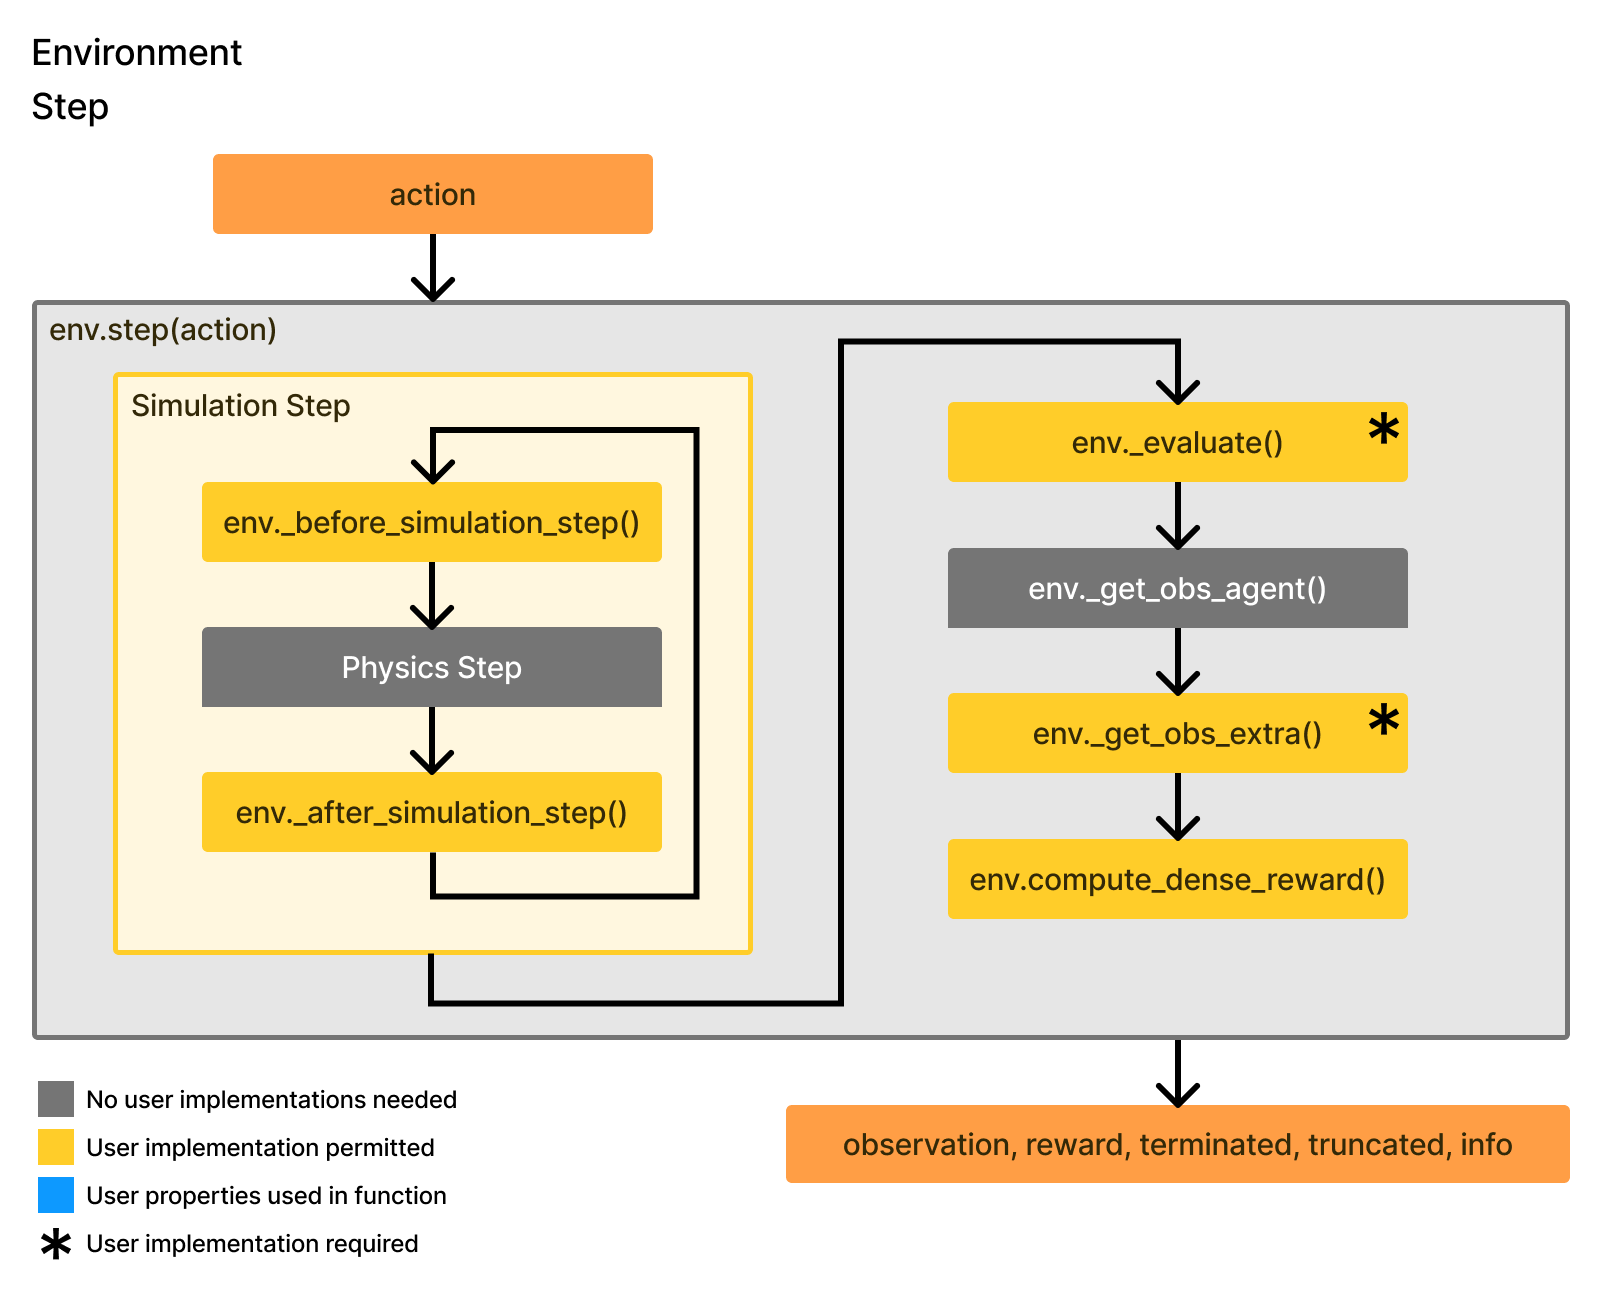
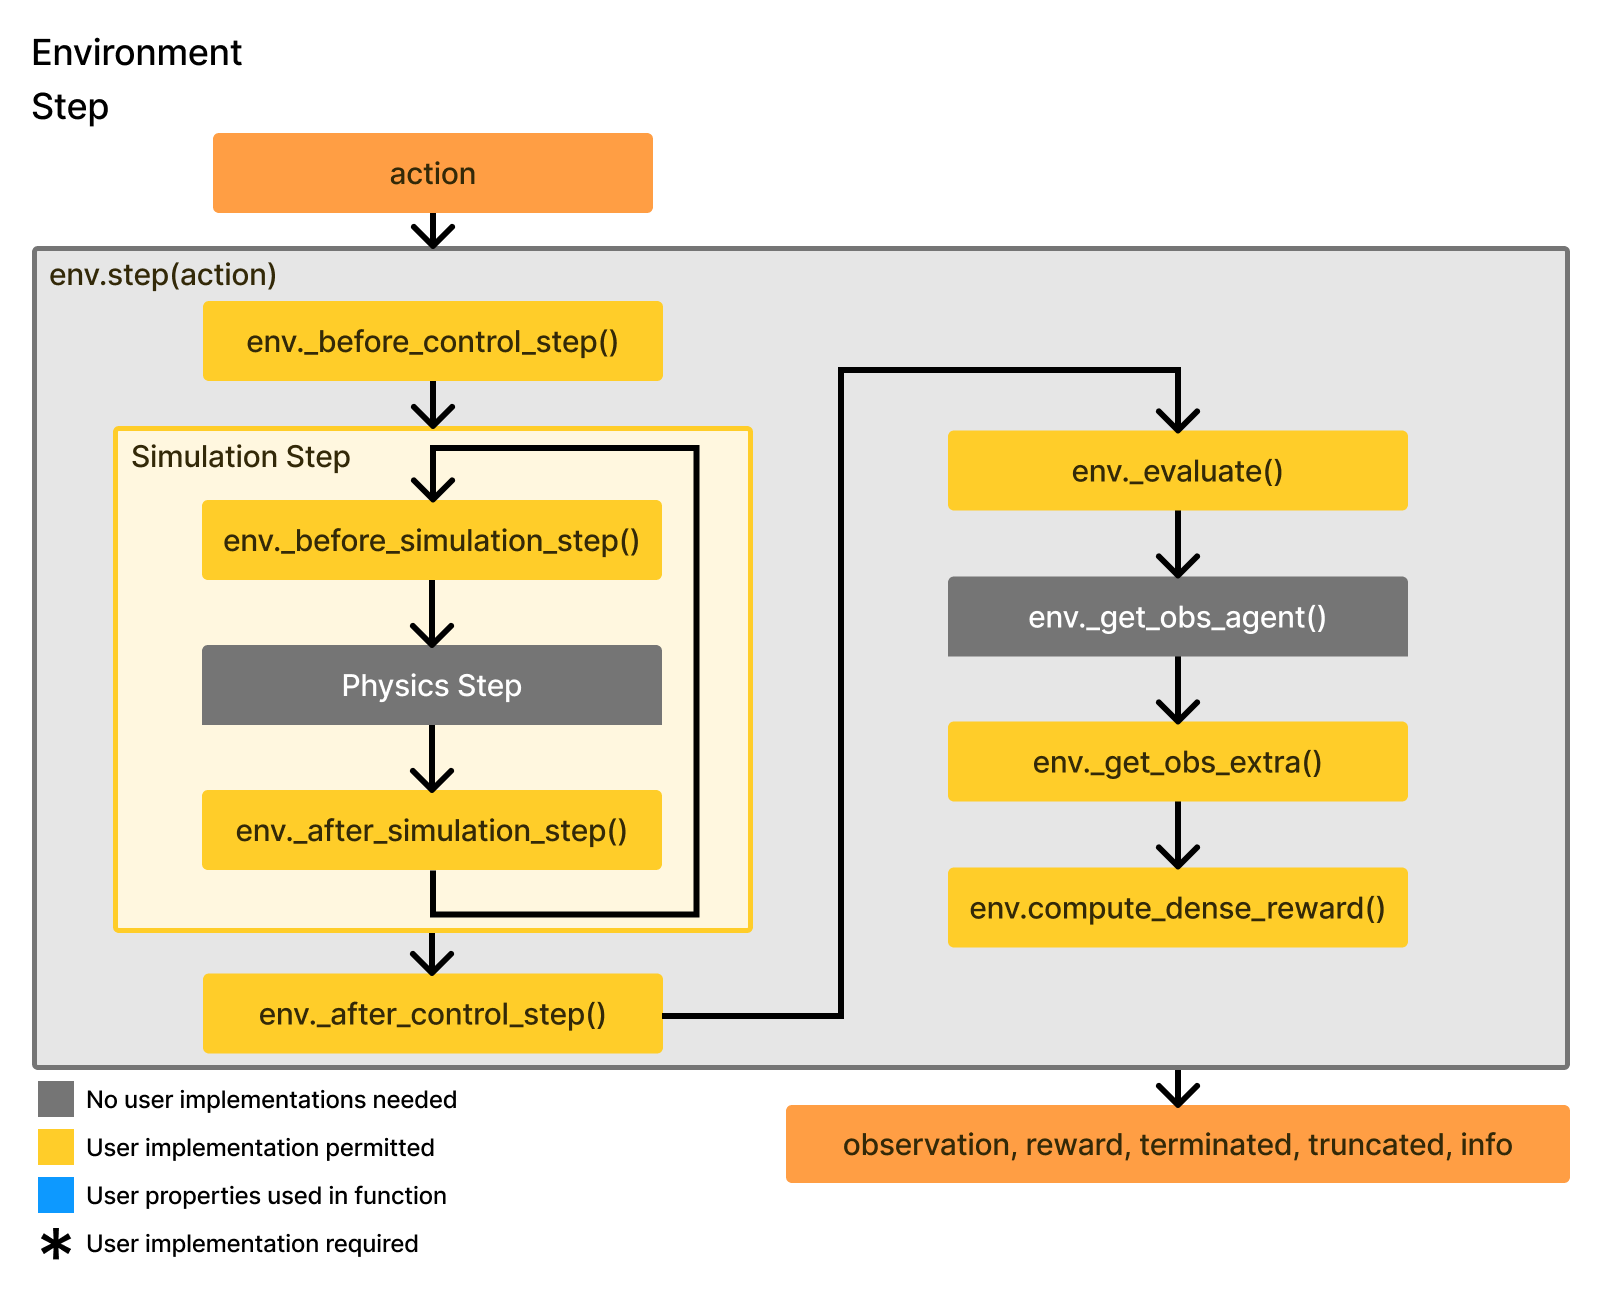
update documentation for new features, evaluate and get obs extra are optional now

Changed region(s): [[0.0, 0.0923, 1.0, 0.8308]]

diff --git a/mani_skill/envs/sapien_env.py b/mani_skill/envs/sapien_env.py
@@ -822,8 +822,7 @@ class BaseEnv(gym.Env):
         for _ in range(self._sim_steps_per_control):
             self.agent.before_simulation_step()
             self._before_simulation_step()
-            with sapien.profile("step_i"):
-                self._scene.step()
+            self._scene.step()
             self._after_simulation_step()
         self._after_control_step()
         if physx.is_gpu_enabled():
@@ -837,8 +836,10 @@ class BaseEnv(gym.Env):
 
         This function may also return additional data that has been computed (e.g. is the robot grasping some object) that may be
         reused when generating observations and rewards.
+
+        By default if not overriden this function returns an empty dictionary
         """
-        raise NotImplementedError
+        return dict()
 
     def get_info(self):
         """

diff --git a/mani_skill/envs/utils/observations/observations.py b/mani_skill/envs/utils/observations/observations.py
@@ -19,7 +19,6 @@ def sensor_data_to_rgbd(
     sensors: Dict[str, BaseSensor],
     rgb=True,
     depth=True,
-    segmentation: str = "",
 ):
     """
     Converts all camera data to a easily usable rgb+depth format

diff --git a/docs/source/user_guide/concepts/observation.md b/docs/source/user_guide/concepts/observation.md
@@ -8,7 +8,7 @@
 All ManiSkill2 tasks take the observation mode (`obs_mode`) as one of the input arguments of `__init__`.
 In general, the observation is organized as a dictionary (with an observation space of `gym.spaces.Dict`).
 
-There are two raw observations modes: `state_dict` (privileged states) and `image` (raw visual observations without postprocessing). `state` is a flat version of `state_dict`. `rgbd` and `pointcloud` apply post-processing on `image` to give convenient representations of visual data.
+There are two raw observations modes: `state_dict` (privileged states) and `sensor_data` (raw sensor data like visual data without postprocessing). `state` is a flat version of `state_dict`. `rgbd` and `pointcloud` apply post-processing on `sensor_data` to give convenient representations of visual data.
 
 The details here show the unbatched shapes. In general there is always a batch dimension unless you are using CPU simulation. Moreover, we annotate what dtype some values are, where some have both a torch and numpy dtype depending on whether you are using GPU or CPU simulation repspectively.
 
@@ -19,36 +19,47 @@ The observation is a dictionary of states. It usually contains privileged inform
 - `agent`: robot proprioception
   - `qpos`: [nq], current joint positions. *nq* is the degree of freedom.
   - `qvel`: [nq], current joint velocities
-  - `base_pose`: [7], robot position (xyz) and quaternion (wxyz) in the world frame
+  <!-- - `base_pose`: [7], robot position (xyz) and quaternion (wxyz) in the world frame -->
   - `controller`: controller states depending on the used controller. Usually an empty dict.
-- `extra`: a dictionary of task-specific information, e.g., goal position, end-effector position.
+- `extra`: a dictionary of task-specific information, e.g., goal position, end-effector position. This is the return value of a task's `_get_obs_extra` function
 
 ### state
 
 It is a flat version of *state_dict*. The observation space is `gym.spaces.Box`.
 
-### image
+### sensor_data
 
-In addition to `agent` and `extra`, `image` and `camera_param` are introduced.
+In addition to `agent` and `extra`, `sensor_data` and `sensor_param` are introduced.
 
-- image: RGB, depth, and other images taken by cameras
-  - `{camera_uid}`:
+- `sensor_data`: data captured by sensors configured in the environment
+  - `{sensor_uid}`:
+    
+    If the data comes from a camera sensor:
     - `Color`: [H, W, 4], `torch.uint8`. RGB+Alpha values..
     - `PositionSegmentation`: [H, W, 4], `torch.int16`. The first 3 dimensions stand for (x, y, z) coordinates in the OpenGL/Blender convension. The unit is millimeters. The last dimension represents segmentation ID. 
-- `camera_param`: camera parameters
-  - `cam2world_gl`: [4, 4], transformation from the camera frame to the world frame (OpenGL/Blender convention)
-  - `extrinsic_cv`: [4, 4], camera extrinsic (OpenCV convention)
-  - `intrinsic_cv`: [3, 3], camera intrinsic (OpenCV convention)
 
+- `sensor_param`: parameters of each sensor, which varies depending on type of sensor
+  - `{sensor_uid}`:
+
+    If `sensor_uid` corresponds to a camera:
+    - `cam2world_gl`: [4, 4], transformation from the camera frame to the world frame (OpenGL/Blender convention)
+    - `extrinsic_cv`: [4, 4], camera extrinsic (OpenCV convention)
+    - `intrinsic_cv`: [3, 3], camera intrinsic (OpenCV convention)
 
 ### rgbd
 
-We postprocess the raw image observation to obtain RGB-D images.
+This observation mode has the same data format as the [sensor_data mode](#sensor_data), but all sensor data from cameras are replaced with the following structure
 
-- `image`: RGB, depth, and other images taken by cameras
-  - `{camera_uid}`:
+- `sensor_data`:
+  - `{sensor_uid}`:
+
+    If the data comes from a camera sensor:
     - `rgb`: [H, W, 3], `torch.uint8, np.uint8`. RGB.
-    - `depth`: [H, W, 1], `torch.int16, np.uint16`. 0 stands for an invalid pixel (beyond the camera far).
+    - `depth`: [H, W, 1], `torch.int16, np.uint16`. The unit is millimeters. 0 stands for an invalid pixel (beyond the camera far).
+
+    Otherwise keep the same data without any additional processing as in the sensor_data mode
+
+Note that this data is not scaled/normalized to [0, 1] or [-1, 1] in order to conserve memory, so if you consider to train on RGBD data be sure to scale your data before training on it.
 
 The RGB and depth data visualized can look like below:
 ```{image} images/replica_cad_rgbd.png
@@ -58,8 +69,7 @@ alt: RGBD from two cameras of Fetch robot inside the ReplicaCAD dataset scene
 ```
 
 ### pointcloud
-
-We postprocess the raw image observation to obtain a point cloud in the world frame. `image` is replaced by `pointcloud`.
+This observation mode has the same data format as the [sensor_data mode](#sensor_data), but all sensor data from cameras are removed and instead a new key is added called `pointcloud`.
 
 - `pointcloud`:
   - `xyzw`: [N, 4], `torch.float32, np.float32`. Point cloud fused from all cameras in the world frame. "xyzw" is a homogeneous representation. `w=0` for infinite points (beyond the camera far), and `w=1` for the rest.

diff --git a/docs/source/user_guide/tutorials/custom_tasks.md b/docs/source/user_guide/tutorials/custom_tasks.md
@@ -78,6 +78,8 @@ To create your own custom robots/agents, we will provide a tutorial on the basic
 
 #### Building Actors
 
+the `_load_scene` function must be implemented to build objects besides agents. It is also given an `options` dictionary which is the same options dictionary passed to `env.reset` and defaults to an empty dictionary (which may be useful for controlling how to load a scene with just reset arguments).
+
 Building a **dynamic** actor like a cube in PushCube is done as so
 ```python
 def _load_scene(self, options: dict):
@@ -151,14 +153,14 @@ In general one use case of setting a positive `reconfiguration_freq` value is fo
 
 ## Episode Initialization / Randomization
 
-Task initialization and randomization is handled in the `_initalize_actors` function and is called whenever `env.reset` is called. The objective here is to set the initial states of objects, including the robot. As the task ideally should be simulatable on the GPU, batched code is unavoidable. Note that furthermore, by default everything in ManiSkill tries to stay batched, even if there is only one element.
+Task initialization and randomization is handled in the `_initalize_actors` function and is called whenever `env.reset` is called. The objective here is to set the initial states of objects, including the robot. As the task ideally should be simulatable on the GPU, batched code is unavoidable. Note that furthermore, by default everything in ManiSkill tries to stay batched, even if there is only one element. Finally, like `_load_scene` the options argument is also passed down here if needed.
 
 An example from part of the PushCube task
 
 ```python
 from mani_skill.utils.structs.pose import Pose
 import torch
-def _initialize_actors(self, env_idx: torch.Tensor):
+def _initialize_actors(self, env_idx: torch.Tensor, options: dict):
     # use the torch.device context manager to automatically create tensors on CPU or CUDA depending on self.device, the device the environment runs on
     with torch.device(self.device):
         b = len(env_idx)
@@ -255,6 +257,8 @@ def _get_obs_extra(self, info: Dict):
         )
     return obs
 ```
+
+In order to understand exactly what data is returned in observations, check out the [section on observations here](../concepts/observation.md)
 
 ## (Optional) Dense Reward Function
 

diff --git a/docs/source/user_guide/getting_started/quickstart.md b/docs/source/user_guide/getting_started/quickstart.md
@@ -70,7 +70,7 @@ For a compilation of demos you can run without having to write any extra code ch
 
 Each ManiSkill task supports different **observation modes** and **control modes**, which determine its **observation space** and **action space**. They can be specified by `gym.make(env_id, obs_mode=..., control_mode=...)`.
 
-The common observation modes are `state`, `rgbd`, `pointcloud`. We also support `state_dict` (states organized as a hierarchical dictionary) and `image` (raw visual observations without postprocessing). Please refer to [Observation](../concepts/observation.md) for more details.
+The common observation modes are `state`, `rgbd`, `pointcloud`. We also support `state_dict` (states organized as a hierarchical dictionary) and `sensor_data` (raw visual observations without postprocessing). Please refer to [Observation](../concepts/observation.md) for more details.
 
 We support a wide range of controllers. Different controllers can have different effects on your algorithms. Thus, it is recommended to understand the action space you are going to use. Please refer to [Controllers](../concepts/controllers.md) for more details.
 
